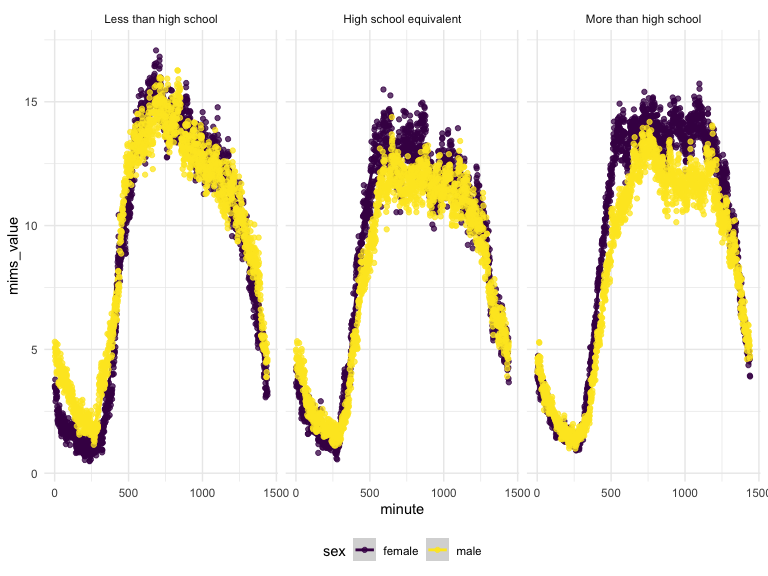
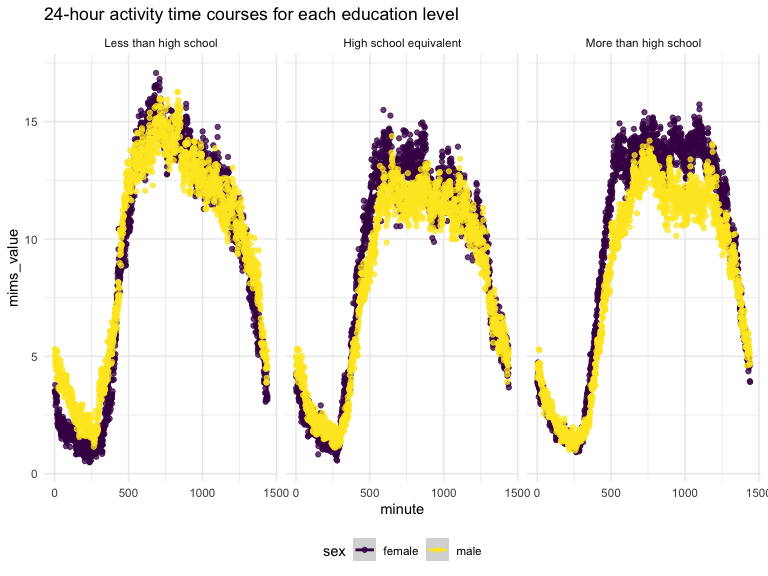
add a title for the three-panel plot

diff --git a/p8105_hw3_tl3195.md b/p8105_hw3_tl3195.md
@@ -469,6 +469,7 @@ demo_acce|>
   summarise(mims_value=mean(mims_value))|>
   ggplot(aes(x=minute, y=mims_value, color=sex)) +
   geom_smooth() + geom_point(alpha=.75) +
+  labs(title="24-hour activity time courses for each education level") +
   facet_grid(.~education)
 ```
 
